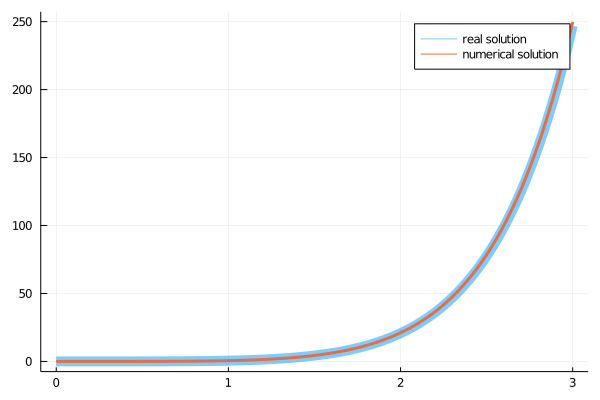
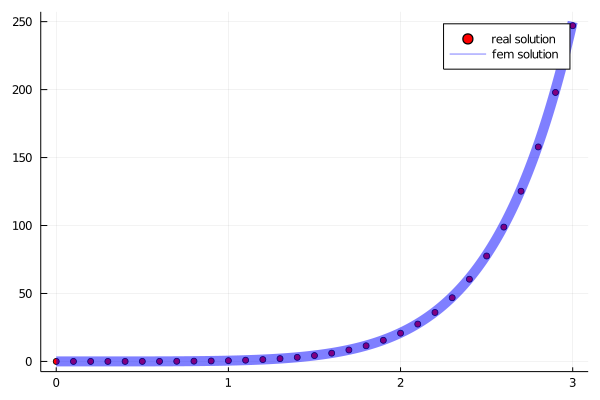
bcynuaa

Changed region(s): [[0.09, 0.15, 0.96, 0.93], [0.69, 0.03, 0.96, 0.18]]

diff --git a/Chapter2-1DGalerkin/1DGalerkin.md b/Chapter2-1DGalerkin/1DGalerkin.md
@@ -76,7 +76,6 @@ $$
 # Chapter2-1DGalerkin//code//test.ipynb
 using Plots;
 include("Euler.jl");
-
 a = 0.;
 b = 3.;
 y0 = 0;
@@ -93,13 +92,13 @@ function f(x)
     return y;
 end
 
-xreal = collect(a: h: b);
+xreal = collect(a: 10*h: b);
 yreal = f_origin.(xreal);
 
 xnumer, ynumer = EulerForward(a, b, y0, f, devide)
 
-plot(xreal, yreal, lw=10, label="real solution", alpha=0.5)
-plot!(xnumer, ynumer, lw=3, label="numerical solution")
+scatter(xreal, yreal, lw=20, color=:red, label="real solution")
+plot!(xnumer, ynumer, lw=10, color=:blue, label="fem solution", alpha=0.5)
 savefig("..//image//fdm_example.png")
 ```
 
@@ -272,6 +271,8 @@ $$
 
 若节点更多，单元数量更多，按照类似方法进行矩阵拼装，最终能得到一个“鸡爪型”的$A$矩阵。此刻再配合上$u_0$的初始边界条件，可以一行一行消去求解该线性方程组。
 
+以上在局部使用Galerkin法获取弱解形式的整个流程，因为把整个区间划分成了有限个区域，因此也成为有限元方法。
+
 # 5.积分换元
 
 显然，因为每一个单元的$x_k$与区间步长不一致，因此每个单元上的基函数$\phi^k_j(j=0,1)$是不尽相同的。对于每个不同的积分单元，我们可以尝试着寻找一些积函数的共性进行分析。
@@ -318,3 +319,134 @@ H_k(f\phi^k_1)&\approx \frac{h_k}{6}\left[ 2f\left(x_{k}+\frac{h_k}{2}\right) + 
 \end{aligned}
 $$
 
+# 6.有限元方法在一阶常微分方程中的启示
+
+仍然考虑如下方程：
+
+$$
+\frac{du}{dx} = x^3 e^x
+$$
+
+显然在做前述的积分换元后，其中：
+
+$$
+A=\frac{d}{dx}=\frac{1}{h_k}\frac{d}{d\xi}
+$$
+
+于是可以得到：
+
+$$
+\begin{cases}
+\begin{aligned}
+H_k(\phi_0^k A\phi_0^k) &= -\int_0^1(1-\xi) d\xi=-\frac{1}{2}\\
+H_k(\phi_0^kA\phi_1^k) & = \int_0^1(1-\xi) d\xi=\frac{1}{2}\\
+H_k(\phi_1^k A\phi_0^k)&= -\int_0^1 \xi d\xi = -\frac{1}{2}\\
+H_k(\phi_1^k A\phi_1^k) &= \int_0^1 \xi d\xi=\frac{1}{2}
+\end{aligned}
+\end{cases}
+$$
+
+这个时候我们会惊奇地发现这个鸡爪型矩阵意外的简单：
+
+$$
+\begin{bmatrix}
+-\frac{1}{2} & \frac{1}{2} & 0 & 0 & \cdots & 0\\
+-\frac{1}{2} & 0 & \frac{1}{2} & 0 & \cdots & 0 \\
+0 & -\frac{1}{2} & 0 & \frac{1}{2} & \cdots & \vdots\\
+\vdots & \vdots & \ddots & \ddots & \ddots & 0 \\
+0 & 0 & 0 & 0 & -\frac{1}{2} & \frac{1}{2}
+\end{bmatrix}
+$$
+
+我们不妨挑选第一行第一列构成的线性方程来进行考量：
+
+$$
+\frac{u_1-u_0}{h_0} = \frac{1}{3}\left[ f(x_0) + 2f \left(x_0+\frac{h_0}{2}\right) \right]
+$$
+
+这其实就是一个简单的差分方程，用$\frac{1}{3}\left[ f(x_0) + 2f(x_1) \right]$取代了$u'(x_0)$项进行的计算。
+
+我们不妨在挑选第$i$行的线性方程来考量：
+
+$$
+\frac{u_{i+1}-u_{i-1}}{2}=
+\frac{h_{i-1}}{6}\left[ 2f\left(x_{i} - \frac{h_{i-1}}{2}\right) + f(x_i)\right]+
+\frac{h_i}{6}\left[ f(x_i) + 2f\left(x_i + \frac{h_i}{2}\right) \right]
+$$
+
+也即：
+
+$$
+\frac{u_{i+1}-u_{i-1}}{x_{i+1}-x_{i-1}}=
+\frac{2h_{i-1}}{3(h_{i-1}+h_i)} f\left(x_i-\frac{h_{i-1}}{2}\right)+
+\frac{1}{3}f(x_i)+
+\frac{2h_{i}}{3(h_{i-1}+h_i)} f\left(x_i+\frac{h_{i}}{2}\right)
+$$
+
+可以将此式理解为，在方程$Au=f$中，我们在节点$i$处进行如下替代：
+
+$$
+u'(x_i)\to\frac{u_{i+1}-u_{i-1}}{x_{i+1}-x_{i-1}}
+$$
+
+$$
+f(x_i)\to \frac{2h_{i-1}}{3(h_{i-1}+h_i)} f\left(x_i-\frac{h_{i-1}}{2}\right)+
+\frac{1}{3}f(x_i)+
+\frac{2h_{i}}{3(h_{i-1}+h_i)} f\left(x_i+\frac{h_{i}}{2}\right)
+$$
+
+我们再来看一下最后一行的方程：
+
+$$
+\frac{u_{n}-u_{n-1}}{2} = \frac{h_{n-1}}{6}\left[ f(x_{n-1}) + 2f\left( x_{n-1} + \frac{h_{n-1}}{2} \right) \right]
+$$
+
+行文至此，可以发现：事实上对于$u'=f$类型的方程，用有限元进行划分网格求解，其本质上的结果和FDM求解的过程似乎是趋同的。虽然用Galerkin在每个单元上进行的操作有所不同，但最终的结果表明，无论是有限元还是FDM，其都是在节点处使用**差商来代替微商**，在边界处开始一步步递进进行运算。
+
+我们来测试一下上述方法，给出求解函数：
+
+```julia
+# Chapter2-1DGa;erkin//code//Galerkin1D.jl
+function Galerkin1D_ODE1_Simpson(mesh1D, u0, f)
+    n = length(mesh1D) - 1;
+    u = zeros(n+1);
+    u[1] = u0;
+    h0 = mesh1D[2] - mesh1D[1];
+    u[2] = u0 + h0/3. * ( f(mesh1D[1]) + 2. * f(mesh1D[1] + h0/2.));
+    for i = 2:n-1
+        hi0 = mesh1D[i] - mesh1D[i-1];
+        hi1 = mesh1D[i+1] - mesh1D[i];
+        temp = 2*hi0/3 * f(mesh1D[i] - hi0/2.);
+        temp += (hi0+hi1)/3 * f(mesh1D[i]);
+        temp += 2*hi1/3 * f(mesh1D[i] + hi1/2.);
+        u[i+1] = u[i-1] + temp;
+    end
+    hn = mesh1D[n+1] - mesh1D[n];
+    u[n+1] = u[n] + hn/3. * ( f(mesh1D[n]) + 2. * f(mesh1D[n] + hn/2.) );
+    return u;
+end
+```
+
+给出测试代码：
+```julia
+# Chapter2-1DGalerkin//code//test.ipynb
+include("Galerkin1D.jl");
+u0 = y0;
+xmesh = collect(0:0.1:3);
+u = Galerkin1D_ODE1_Simpson(xmesh, u0, f);
+
+plot!(xmesh, u, lw=20, color=:green, alpha=0.3, label="fem solution")
+savefig("..//image//fem_example.png")
+```
+
+求解结果如下图所所示可以发现在划分成300个单元时，其解与真实解吻合得相当好，以$x=3$点为例，精确解为247.02644。在两种方法同划分300个单元时，前进欧拉FDM法算得249.747029，有限元FEM解法算得246.999657，精度略高于FDM方法。
+
+![有限元Galerkin初尝试 image//fem_example.png](image//fem_example.png)
+
+# 8.能否有更好的求解方式呢？
+
+不难发现，在求解结束后，整个函数本质上是由“逐段的直线”拼凑出来的，整个曲线并不光滑。那么能否有更好的解决方式呢？
+
+> 思考：在插值构造中存在样条插值，常用的有“三弯矩”方程。能否在每个单元节点上添加一阶导数或者二阶导数插值条件，从而让最后求得的函数在整个区域上更加光滑呢？
+
+留做后续的研究与思考。
